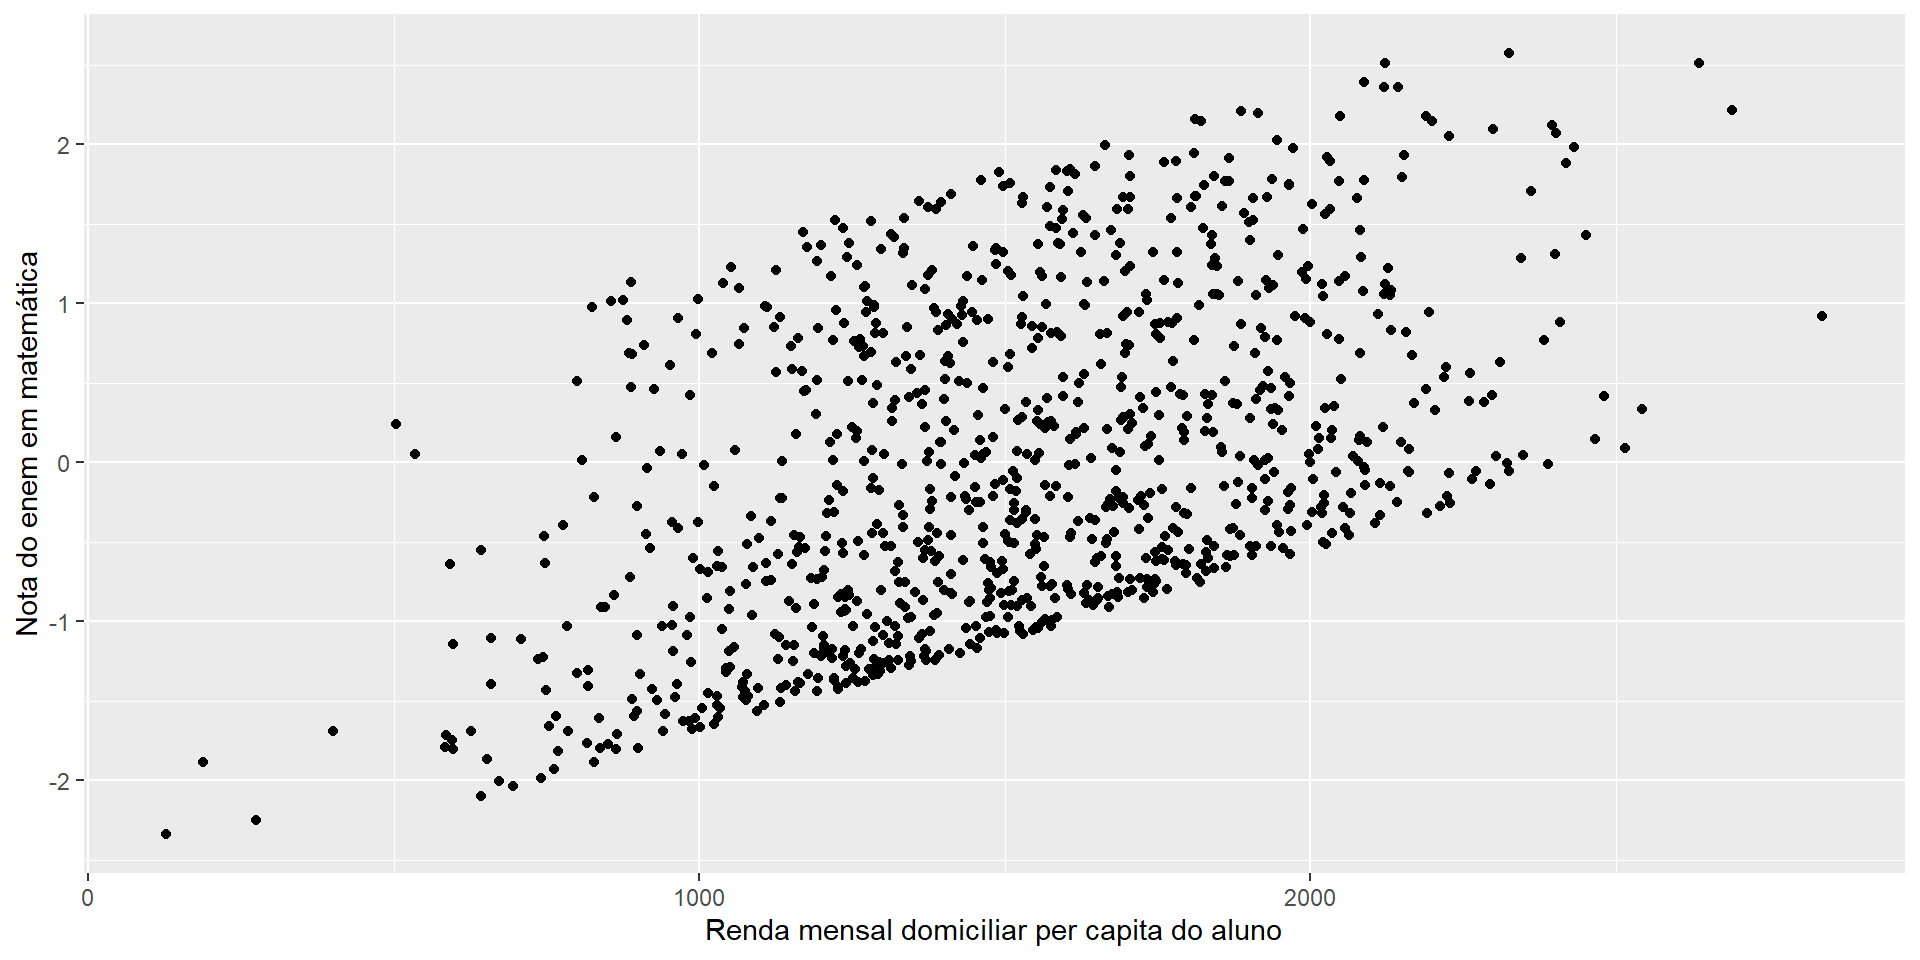
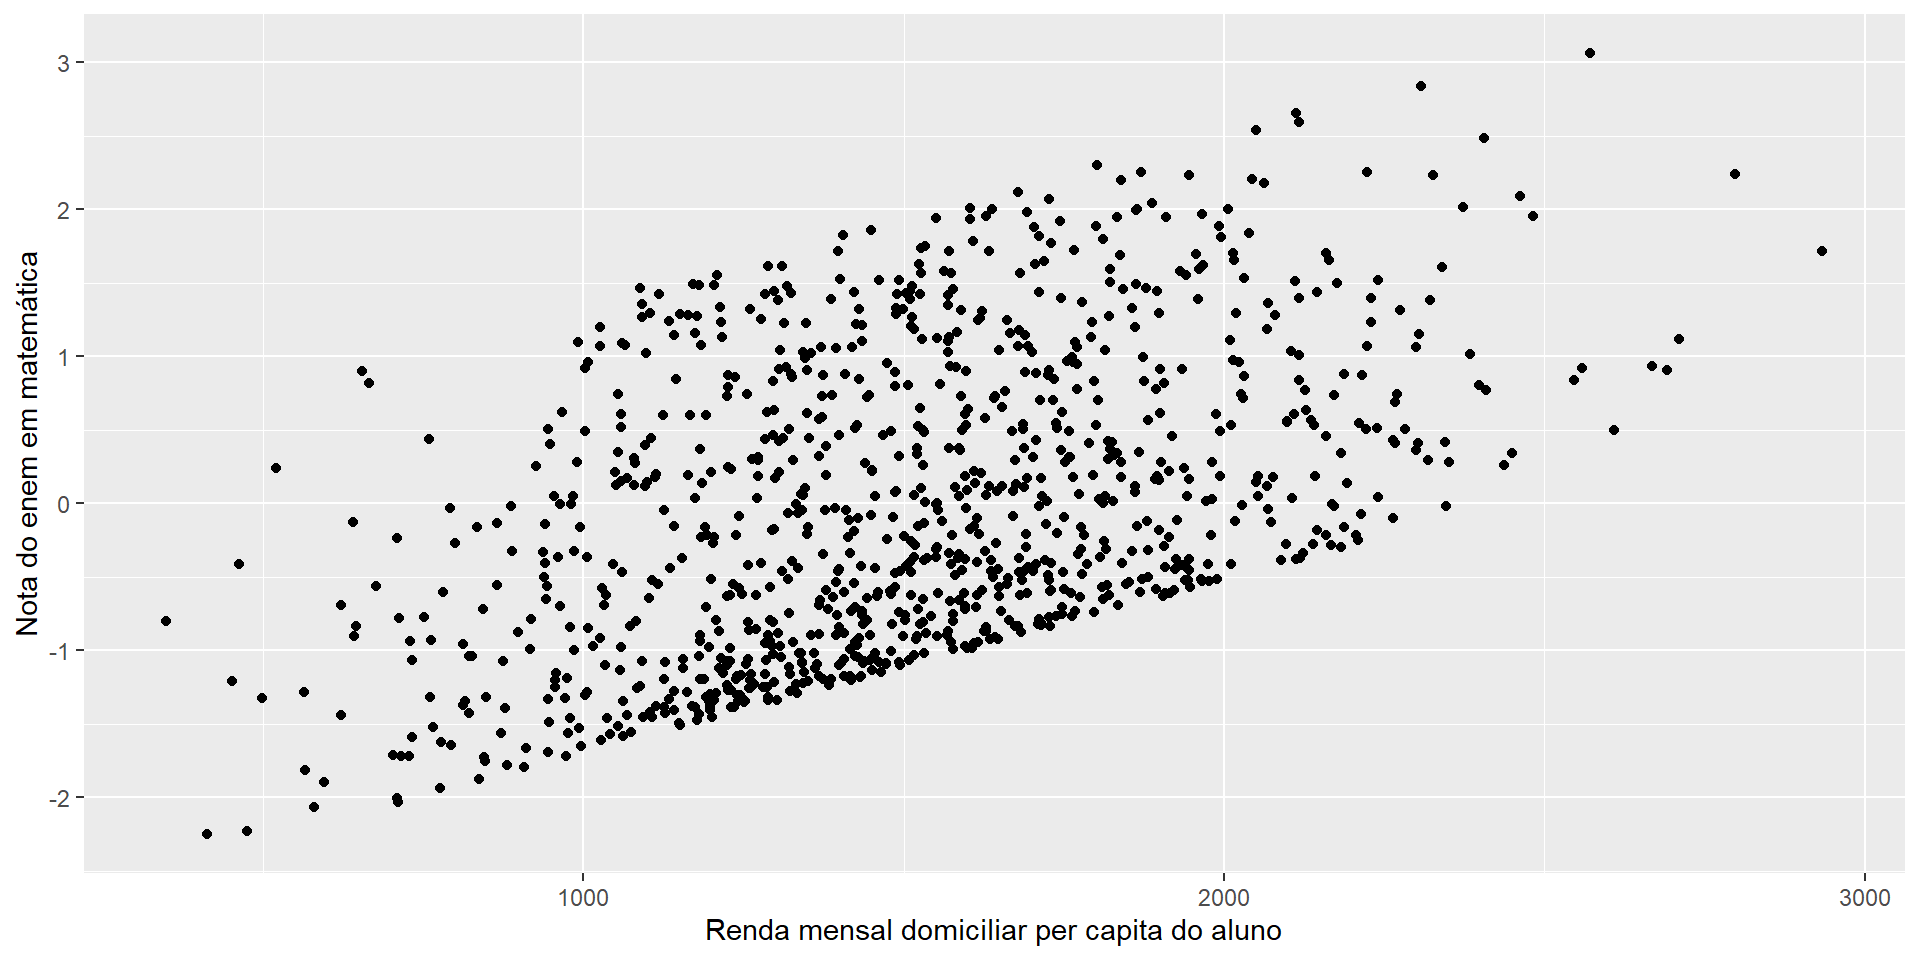
atualizacao de slides

diff --git a/dia 1/slide/1.fundamentos.html b/dia 1/slide/1.fundamentos.html
@@ -10,7 +10,7 @@
 <meta charset="utf-8">
 <meta name="generator" content="quarto-1.9.38">
 <meta name="author" content="Thiago Cordeiro Almeida">
-<meta name="dcterms.date" content="2026-09-07">
+<meta name="dcterms.date" content="2026-09-15">
 <title>Regressão para pesquisas sociais</title>
 <meta name="apple-mobile-web-app-capable" content="yes">
 <meta name="apple-mobile-web-app-status-bar-style" content="black-translucent">
@@ -211,7 +211,7 @@ Thiago Cordeiro Almeida
     </div>
 </div>
 
-  <p class="date">September 7, 2026</p>
+  <p class="date">September 15, 2026</p>
 </section><section><section id="antes-de-começar" class="title-slide slide level1 center"><h1>Antes de começar…</h1>
 <p>lista de presença!</p>
 <p><img data-src="images/attention.gif" class="absolute" style="bottom: 10px; right: 50px; width: 240px; height: 240px; "></p>
@@ -238,9 +238,9 @@ Thiago Cordeiro Almeida
 </div></div>
 </section></section><section><section id="algumas-definições-acerca-de-dados-quantitativos" class="title-slide slide level1 theme-first center"><h1>Algumas definições acerca de dados quantitativos</h1>
 <div style="text-align: left;">
-<p>Natureza dos dados quantitativos</p>
+<p>Natureza dos dados</p>
 </div>
-</section><section id="natureza-dos-dados-quantitativos" class="slide level2 theme-subtopic smaller"><h2>Natureza dos dados quantitativos</h2>
+</section><section id="natureza-dos-dados" class="slide level2 theme-subtopic smaller"><h2>Natureza dos dados</h2>
 <p>está ligada à forma de classificação dos tipos de dados existentes.</p>
 <div class="columns">
 <div class="column" style="width:50%;">
@@ -258,9 +258,9 @@ Thiago Cordeiro Almeida
 <li><p>Passível de ser “precisada”</p></li>
 <li><p>Possível de ser <strong>o</strong>bjetivamente captada</p></li>
 </ul>
-<p><strong>Exemplos</strong>: <span class="gap">Fluxos de atividades culturais, peso das pessoas ao nascer</span></p>
+<p><strong>Exemplos</strong>: <span class="gap">Atividades culturais, peso das pessoas ao nascer</span></p>
 </div></div>
-</section><section id="natureza-dos-dados-quantitativos-1" class="slide level2 theme-subtopic smaller"><h2>Natureza dos dados quantitativos</h2>
+</section><section id="natureza-dos-dados-1" class="slide level2 theme-subtopic smaller"><h2>Natureza dos dados</h2>
 <p>está ligada à forma de classificação dos tipos de dados existentes.</p>
 <div class="columns">
 <div class="column" style="width:50%;">
@@ -278,7 +278,7 @@ Thiago Cordeiro Almeida
 <li><p>Passível de ser “precisada”</p></li>
 <li><p>Possível de ser <strong>o</strong>bjetivamente captada</p></li>
 </ul>
-<p><strong>Exemplos</strong>: <span class="gap">Fluxos de atividades culturais, peso das pessoas ao nascer</span></p>
+<p><strong>Exemplos</strong>: <span class="gap">Atividades culturais, peso das pessoas ao nascer</span></p>
 </div></div>
 <p><img data-src="images/question.gif" class="absolute" style="bottom: 20px; right: 450px; width: 300px; height: 300px; "></p>
 </section></section><section><section id="algumas-definições-acerca-de-dados-quantitativos-1" class="title-slide slide level1 theme-first center"><h1>Algumas definições acerca de dados quantitativos</h1>
@@ -586,13 +586,13 @@ Thiago Cordeiro Almeida
     Pearson's product-moment correlation
 
 data:  renda and enem_mat
-t = 17.54, df = 998, p-value &lt; 2.2e-16
+t = 17.083, df = 998, p-value &lt; 2.2e-16
 alternative hypothesis: true correlation is not equal to 0
 95 percent confidence interval:
- 0.4365573 0.5314150
+ 0.4262428 0.5222595
 sample estimates:
       cor 
-0.4854134 </code></pre>
+0.4756669 </code></pre>
 </div>
 </div>
 <p>Qual a conclusão que teríamos?</p>
@@ -679,7 +679,7 @@ sample estimates:
 <li class="fragment"><p>Estabelecer a relação entre os fenômenos a serem modelados: qual tipo de relação eles têm?</p></li>
 <li class="fragment"><p>Explorar e descrever a relação entre eles: análise exploratória dos dados!</p></li>
 <li class="fragment"><p>Construir o modelo para a população a que queremos generalizar</p></li>
-<li class="fragment"><p>Implementar o modelo populacionar para a amostra da população que temos acesso</p></li>
+<li class="fragment"><p>Implementar o modelo populacional para a amostra da população que temos acesso</p></li>
 <li class="fragment"><p>Avaliar a validade do nosso modelo</p></li>
 <li class="fragment"><p>Estabelecer as conclusões possíveis com nossos modelos</p></li>
 </ol></section><section id="motivações-para-se-modelar-fenômenos-sociais" class="slide level2 theme-subtopic smaller"><h2>Motivações para se modelar fenômenos sociais</h2>

diff --git a/0.intro/0.introducao.html b/0.intro/0.introducao.html
@@ -10,7 +10,7 @@
   <meta name="generator" content="quarto-1.9.38">
 
   <meta name="author" content="Thiago Cordeiro Almeida">
-  <meta name="dcterms.date" content="2026-09-07">
+  <meta name="dcterms.date" content="2026-09-14">
   <title>Regressão para pesquisas sociais</title>
   <meta name="apple-mobile-web-app-capable" content="yes">
   <meta name="apple-mobile-web-app-status-bar-style" content="black-translucent">
@@ -147,7 +147,7 @@ Thiago Cordeiro Almeida
     </div>
 </div>
 
-  <p class="date">September 7, 2026</p>
+  <p class="date">September 14, 2026</p>
 </section>
 <section>
 <section id="sejam-bem-vinds" class="title-slide slide level1 theme-first center">
